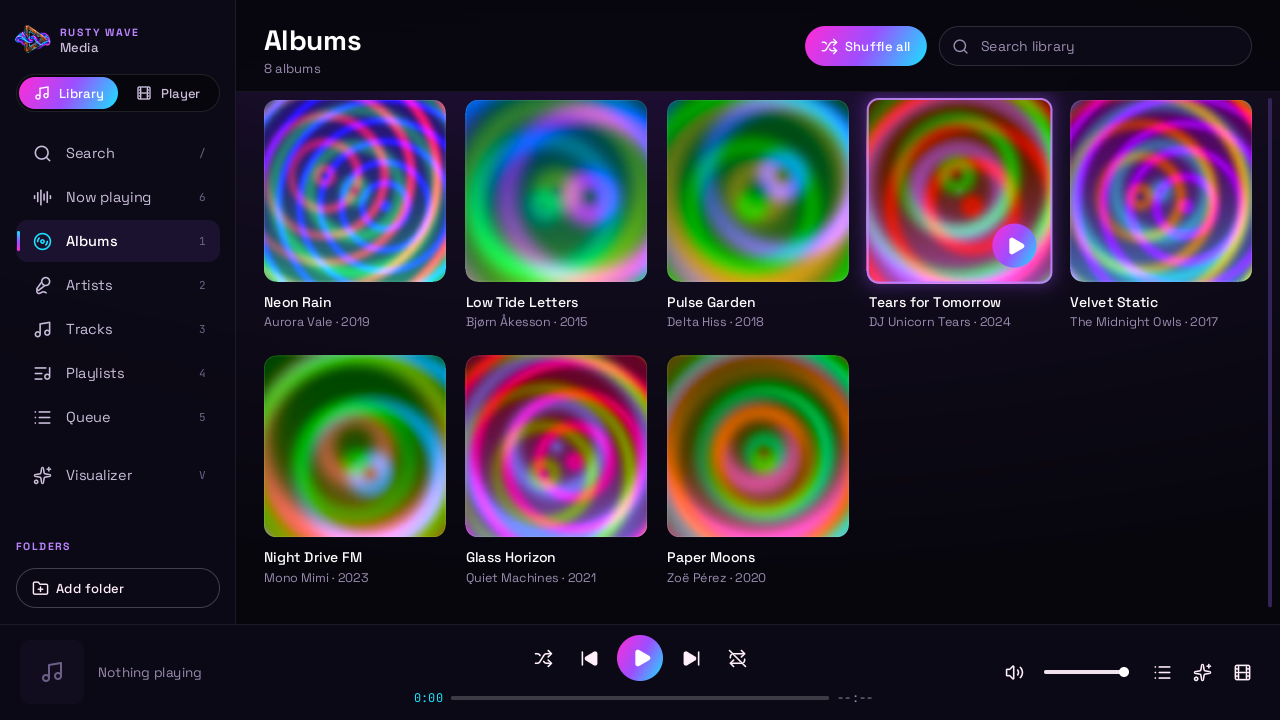
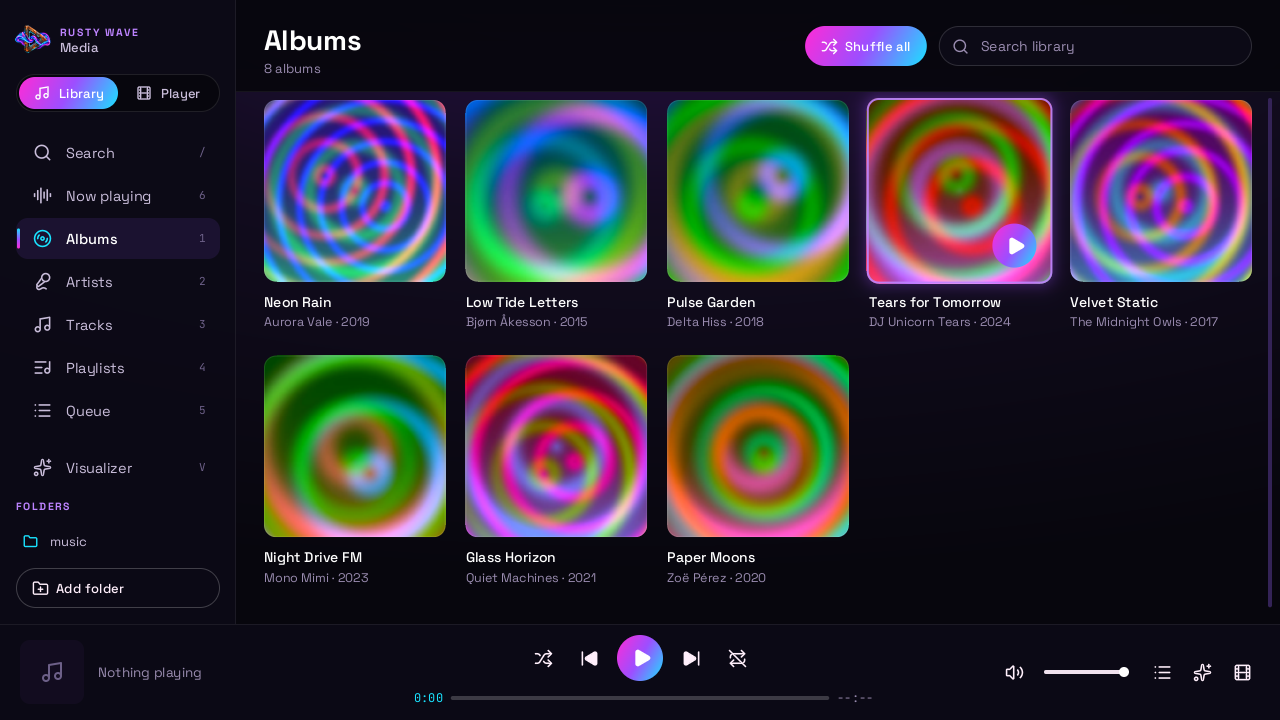
Library rail: the added folders show at 1280x720 and smaller (entries shrink first, compact rows, '+N more'); resume: any saved position except the last 5 s or 2%, and only library songs start from the top; docs screenshots

diff --git a/crates/rvp-app/src/lib.rs b/crates/rvp-app/src/lib.rs
@@ -35,10 +35,23 @@ use rvp_host::{
 use rvp_player::{Playlist, Repeat, Session, SessionEvent, SessionState};
 use rvp_ui::{Action, Cursor, FrameBuffer, MediaState, Mode, SPEEDS, TrackItem, Ui, UiConfig, UiModel};
 
-/// A saved resume position is only used when the file is longer than this past it, microseconds.
-const RESUME_MIN_REMAINING_US: Timestamp = 10_000_000;
-/// And only when it is at least this far in.
-const RESUME_MIN_POSITION_US: Timestamp = 5_000_000;
+/// An item is finished, not resumable, when the saved position is within this long of its end, microseconds (or within
+/// [`RESUME_END_FRACTION`] of its length, whichever is more): the next play starts from the top.
+const RESUME_END_MIN_US: Timestamp = 5_000_000;
+/// One part in this many of the length: 2%.
+const RESUME_END_FRACTION: Timestamp = 50;
+/// Whether a saved position `pos` in an item of length `dur` is worth going back to: any position past the start, except the last
+/// stretch (the larger of 5 s and 2% of the length), which counts as finished.
+fn resumable(pos: Timestamp, dur: Timestamp) -> bool {
+    pos > 0 && pos + RESUME_END_MIN_US.max(dur / RESUME_END_FRACTION) <= dur
+}
+
+/// The "a song starts from the top" rule: only a music track played from the library, without video, shorter than
+/// [`RESUME_MIN_AUDIO_US`]. A dropped or opened file resumes whatever it is.
+fn song_skips_resume(from_library: bool, has_video: bool, dur: Timestamp) -> bool {
+    from_library && !has_video && dur < RESUME_MIN_AUDIO_US
+}
+
 /// How often the position is written to storage while playing, microseconds.
 const RESUME_SAVE_EVERY_US: Timestamp = 5_000_000;
 /// A previous-item request this far into an item restarts it instead of going back.
@@ -496,15 +509,26 @@ impl App {
         }
         self.last_resume_save = now;
         let (Some(dur), pos) = (s.duration_us(), s.position_us(now)) else { return };
-        if !s.container_has_video() && dur < RESUME_MIN_AUDIO_US {
-            return; // a song starts from the top every time
+        if self.is_library_song(s.container_has_video(), dur) {
+            return; // a song from the library starts from the top every time
         }
-        let value: Vec<u8> = if s.state() == SessionState::Ended || pos + RESUME_MIN_REMAINING_US > dur {
-            Vec::new() // finished (or nearly): next time starts from the beginning
+        let value: Vec<u8> = if s.state() == SessionState::Ended || !resumable(pos, dur) {
+            Vec::new() // finished (or nearly), or at the start: next time starts from the beginning
         } else {
             (pos / 1000).to_le_bytes().to_vec()
         };
         rvp_core::task::block_on(host.storage().store(&key, &value));
+    }
+
+    /// A music track played from the library that is shorter than [`RESUME_MIN_AUDIO_US`] (a song, not an audiobook): it does not
+    /// resume. Everything else does, whatever it is and however it was opened.
+    fn is_library_song(&self, has_video: bool, dur: Timestamp) -> bool {
+        let from_library = self
+            .playlist
+            .current_id()
+            .and_then(|id| self.playlist.get(id))
+            .is_some_and(|i| i.track.is_some());
+        song_skips_resume(from_library, has_video, dur)
     }
 
     /// Persist what must survive a page reload (a host calls this before unloading).
@@ -519,30 +543,32 @@ impl App {
         if self.resume_checked {
             return;
         }
-        let Some(s) = &mut self.session else { return };
+        let Some(s) = &self.session else { return };
         let Some(dur) = s.duration_us() else {
             if s.state() != SessionState::Opening {
                 self.resume_checked = true;
             }
             return;
         };
+        let song = self.is_library_song(s.container_has_video(), dur);
+        let Some(s) = &mut self.session else { return };
         self.resume_checked = true;
         if let Some(pos) = self.restore.forced_pos.take() {
             // The queue was restored: go back to where the last run stopped, whatever the length.
-            if pos >= RESUME_MIN_POSITION_US && pos + RESUME_MIN_REMAINING_US <= dur {
+            if resumable(pos, dur) {
                 s.seek(pos);
                 self.ui.show_toast(&format!("Restored at {}", rvp_ui::format_time(pos)), now);
             }
             return;
         }
-        if !s.container_has_video() && dur < RESUME_MIN_AUDIO_US {
+        if song {
             return;
         }
         let Some(key) = self.resume_key.clone() else { return };
         let Some(bytes) = rvp_core::task::block_on(host.storage().load(&key)) else { return };
         let Ok(raw) = <[u8; 8]>::try_from(bytes.as_slice()) else { return };
         let pos = i64::from_le_bytes(raw) * 1000;
-        if pos >= RESUME_MIN_POSITION_US && pos + RESUME_MIN_REMAINING_US <= dur {
+        if resumable(pos, dur) {
             s.seek(pos);
             self.ui.show_toast(&format!("Resumed at {}", rvp_ui::format_time(pos)), now);
         }
@@ -1477,5 +1503,32 @@ mod tests {
             "Video codec `hevc` isn't on the guest list."
         );
         assert!(friendly_error(&Error::Truncated).contains("ends too early"));
+    }
+
+    const S: Timestamp = 1_000_000;
+
+    #[test]
+    fn a_saved_position_resumes_unless_it_is_at_the_start_or_the_very_end() {
+        // A short clip (60 s): the last 5 s are the end (2% is only 1.2 s).
+        assert!(resumable(S, 60 * S), "1 s in resumes (the old rule skipped under 5 s)");
+        assert!(resumable(54 * S, 60 * S), "6 s from the end resumes (the old rule skipped under 10 s)");
+        assert!(resumable(55 * S, 60 * S), "exactly 5 s from the end still resumes");
+        assert!(!resumable(55 * S + 1, 60 * S));
+        assert!(!resumable(0, 60 * S), "the start is not a position to go back to");
+        // A film (2 h): the last 2% (144 s) is the end.
+        let film = 7200 * S;
+        assert!(resumable(film - 145 * S, film));
+        assert!(!resumable(film - 143 * S, film));
+        // A saved position past the length (the file changed) is not resumable.
+        assert!(!resumable(70 * S, 60 * S));
+    }
+
+    #[test]
+    fn only_a_library_song_starts_from_the_top() {
+        let min = RESUME_MIN_AUDIO_US;
+        assert!(song_skips_resume(true, false, 3 * 60 * S));
+        assert!(!song_skips_resume(true, false, min), "an audiobook from the library resumes");
+        assert!(!song_skips_resume(true, true, 3 * 60 * S), "a video from the library resumes");
+        assert!(!song_skips_resume(false, false, 3 * 60 * S), "a dropped or opened audio file resumes");
     }
 }

diff --git a/crates/rvp-ui/src/lib_ui/geom.rs b/crates/rvp-ui/src/lib_ui/geom.rs
@@ -77,6 +77,8 @@ pub(crate) struct Geom {
     pub mode: [RectF; 2],
     pub add_folder: RectF,
     pub folders: Vec<(usize, RectF)>,
+    /// Folders that do not fit under the others: a "+N more" line after the last row.
+    pub folders_more: usize,
     pub back: Option<RectF>,
     pub search: RectF,
     pub search_clear: RectF,
@@ -125,6 +127,7 @@ impl Ui {
             mode: [RectF::default(); 2],
             add_folder: RectF::default(),
             folders: Vec::new(),
+            folders_more: 0,
             back: None,
             search: RectF::default(),
             search_clear: RectF::default(),
@@ -178,12 +181,31 @@ impl Ui {
             ];
         }
         let mut y = top + if compact { 92.0 * s } else { 58.0 * s };
-        // On a short window the entries shrink to fit between the switch and the add button.
+        let bottom = r.bottom() - 16.0 * s;
+        let btn_h = 40.0 * s;
+        g.add_folder = RectF::new(px, bottom - btn_h, iw, btn_h);
+        // The folders live in the space between the entries and the add button (and the scan's progress line when it shows). The
+        // entries shrink first (down to a compact row), so that up to three folders always have their rows; on a window too short
+        // even for one, the folders are left out.
+        let n_roots = if compact { 0 } else { ctx.lib.roots().len() };
+        let (head, step, row_h, more_h) = (26.0 * s, 28.0 * s, 26.0 * s, 16.0 * s);
+        let area_bottom = g.add_folder.y - 12.0 * s - if ctx.scan.is_some() { 34.0 * s } else { 0.0 };
         let items = NAV.iter().flatten().count() as f32;
         let dividers = NAV.iter().filter(|n| n.is_none()).count() as f32;
-        let btn_h = 40.0 * s;
-        let room = (r.bottom() - 16.0 * s - btn_h - 10.0 * s) - y - dividers * 14.0 * s;
-        let item_h = ((room / items) - 2.0 * s).clamp(30.0 * s, if compact { 44.0 * s } else { 42.0 * s });
+        let nav_min = items * (24.0 * s + 2.0 * s) + dividers * 14.0 * s;
+        let space = (area_bottom - y - nav_min - 12.0 * s - head).max(0.0);
+        let mut reserved_rows = n_roots.min(3).min((space / step) as usize);
+        // Folders beyond the rows need room for the "+N more" line too.
+        while reserved_rows > 0 && reserved_rows < n_roots && reserved_rows as f32 * step + more_h > space {
+            reserved_rows -= 1;
+        }
+        let reserve = if reserved_rows == 0 {
+            0.0
+        } else {
+            head + reserved_rows as f32 * step + if n_roots > reserved_rows { more_h } else { 0.0 } + 12.0 * s
+        };
+        let room = (area_bottom - reserve) - y - dividers * 14.0 * s;
+        let item_h = ((room / items) - 2.0 * s).clamp(24.0 * s, if compact { 44.0 * s } else { 42.0 * s });
         for it in NAV.iter() {
             match it {
                 Some((v, ..)) => {
@@ -193,18 +215,21 @@ impl Ui {
                 None => y += 14.0 * s,
             }
         }
-        // Folders (not in the compact rail) and the add button.
-        let bottom = r.bottom() - 16.0 * s;
-        g.add_folder = RectF::new(px, bottom - btn_h, iw, btn_h);
-        if !compact {
-            let mut fy = y + 48.0 * s;
-            for (i, _) in ctx.lib.roots().iter().enumerate() {
-                if fy + 28.0 * s > g.add_folder.y - 8.0 * s {
-                    break;
-                }
-                g.folders.push((i, RectF::new(px, fy, iw, 28.0 * s)));
-                fy += 30.0 * s;
+        if reserved_rows > 0 {
+            // Whatever the entries left over shows more folders; the rest are counted in a "+N more" line.
+            let first = y + 12.0 * s + head;
+            let avail = area_bottom - first;
+            let mut k = (avail / step).max(0.0) as usize;
+            if k < n_roots {
+                k = ((avail - more_h) / step).max(0.0) as usize;
             }
+            let k = k.clamp(reserved_rows, n_roots);
+            let mut fy = first;
+            for i in 0..k {
+                g.folders.push((i, RectF::new(px, fy, iw, row_h)));
+                fy += step;
+            }
+            g.folders_more = n_roots - k;
         }
     }
 

diff --git a/crates/rvp-ui/src/lib_ui/tests.rs b/crates/rvp-ui/src/lib_ui/tests.rs
@@ -780,3 +780,39 @@ fn dragging_a_queue_row_moves_it() {
     r.draw();
     r.handle(InputEvent::PointerUp { x: x0 + 100.0, y: y2, button: PointerButton::Primary });
 }
+
+#[test]
+fn the_added_folders_show_in_the_rail_at_every_size() {
+    for (w, h) in [(1280, 720), (1024, 600), (800, 500), (1280, 540)] {
+        for roots in [1usize, 3, 7] {
+            let mut r = Rig::new();
+            for i in 1..roots {
+                r.lib.begin_scan(&alloc::format!("r{i}"), &alloc::format!("Folder {i}"), &[]);
+                r.lib.finish_scan();
+            }
+            r.ui.set_size(w, h, 1.0);
+            let ctx = LibCtx { lib: &r.lib, now_art: None, scan: None, viz: None, video: None };
+            let g = r.ui.lib_geom(&r.m, &ctx);
+            assert!(!g.m.compact || w < 1000, "{w}x{h}");
+            if g.m.compact {
+                continue; // the narrow rail has icons only
+            }
+            let n = g.folders.len();
+            if h >= 720 {
+                assert!(n >= roots.min(3), "{w}x{h}, {roots} folders: only {n} rows");
+            } else if h >= 600 {
+                assert!(n >= 1, "{w}x{h}, {roots} folders: no row");
+            }
+            if n > 0 {
+                assert_eq!(n + g.folders_more, roots, "{w}x{h}: every folder is a row or counted");
+            }
+            // The rows sit under the entries and above the add button, without overlapping either.
+            let nav_bottom = g.nav.last().unwrap().1.bottom();
+            for (_, rect) in &g.folders {
+                assert!(rect.y >= nav_bottom, "{w}x{h}: a folder row overlaps the entries");
+                assert!(rect.bottom() <= g.add_folder.y, "{w}x{h}: a folder row overlaps the add button");
+            }
+            r.draw();
+        }
+    }
+}

diff --git a/crates/rvp-host-headless/tests/m8_playlist.rs b/crates/rvp-host-headless/tests/m8_playlist.rs
@@ -237,6 +237,47 @@ fn a_file_that_cannot_open_is_skipped() {
 }
 
 #[test]
+fn an_early_position_and_one_just_before_the_end_resume_and_the_last_stretch_does_not() {
+    if skip() {
+        return;
+    }
+    // 60 s file: 3 s in resumes (the old rule skipped anything under 5 s), 6 s from the end resumes, 3 s from the end restarts.
+    for (fraction, want) in [(0.05, Some(3.0)), (0.90, Some(54.0)), (0.95, None)] {
+        let mut r = Rig::new();
+        r.open(&["av1_opus_60s.webm"]);
+        r.run(500);
+        r.act(Action::SeekFraction(fraction));
+        r.run(700);
+        r.app.save_state(&mut r.host);
+        let mut r = r.reload();
+        r.open(&["av1_opus_60s.webm"]);
+        r.run(1_500);
+        match want {
+            Some(t) => assert!((r.pos_s() - t).abs() < 2.5, "{fraction}: resumed at {}, want {t}", r.pos_s()),
+            None => assert!(r.pos_s() < 2.5, "{fraction}: restarted at {}", r.pos_s()),
+        }
+    }
+}
+
+#[test]
+fn an_audio_file_that_is_opened_directly_resumes_too() {
+    if skip() {
+        return;
+    }
+    // Only a song played from the library starts from the top: a file opened or dropped resumes, whatever it is.
+    let mut r = Rig::new();
+    r.open(&["levels/music.flac"]);
+    r.run(500);
+    r.act(Action::SeekFraction(0.5));
+    r.run(700);
+    r.app.save_state(&mut r.host);
+    let mut r = r.reload();
+    r.open(&["levels/music.flac"]);
+    r.run(1_500);
+    assert!((r.pos_s() - 15.0).abs() < 2.5, "resumed at {}", r.pos_s());
+}
+
+#[test]
 fn the_position_is_remembered_across_a_reload() {
     if skip() {
         return;

diff --git a/crates/rvp-ui/src/lib_ui/draw.rs b/crates/rvp-ui/src/lib_ui/draw.rs
@@ -422,6 +422,22 @@ impl Ui {
                 );
             }
         }
+        if g.folders_more > 0 {
+            if let Some((_, last)) = g.folders.last() {
+                let label = alloc::format!("+{} more", g.folders_more);
+                self.text(
+                    fb,
+                    Face::Sans,
+                    12.0,
+                    px + 14.0 * s,
+                    last.bottom() + 10.0 * s,
+                    &label,
+                    t::TEXT_DISABLED,
+                    1.0,
+                    0.0,
+                );
+            }
+        }
         if let Some(sc) = ctx.scan {
             let y = g.add_folder.y - 20.0 * s;
             if !compact {

diff --git a/crates/rvp-app/src/library.rs b/crates/rvp-app/src/library.rs
@@ -23,7 +23,7 @@ const NOW_ART_SIDE: u32 = 640;
 const MAX_PLAYLIST_FILE: usize = 8 << 20;
 /// Pictures loaded from storage per tick.
 const ART_PER_TICK: usize = 12;
-/// Playback shorter than this and without a picture does not resume from where it stopped (a song, not an audiobook).
+/// A music track from the library shorter than this and without video does not resume from where it stopped (a song, not an audiobook).
 pub(crate) const RESUME_MIN_AUDIO_US: Timestamp = 20 * 60 * 1_000_000;
 /// The visualizer picture is made at most this often, microseconds (about 30 a second).
 const VIZ_EVERY_US: Timestamp = 30_000;
